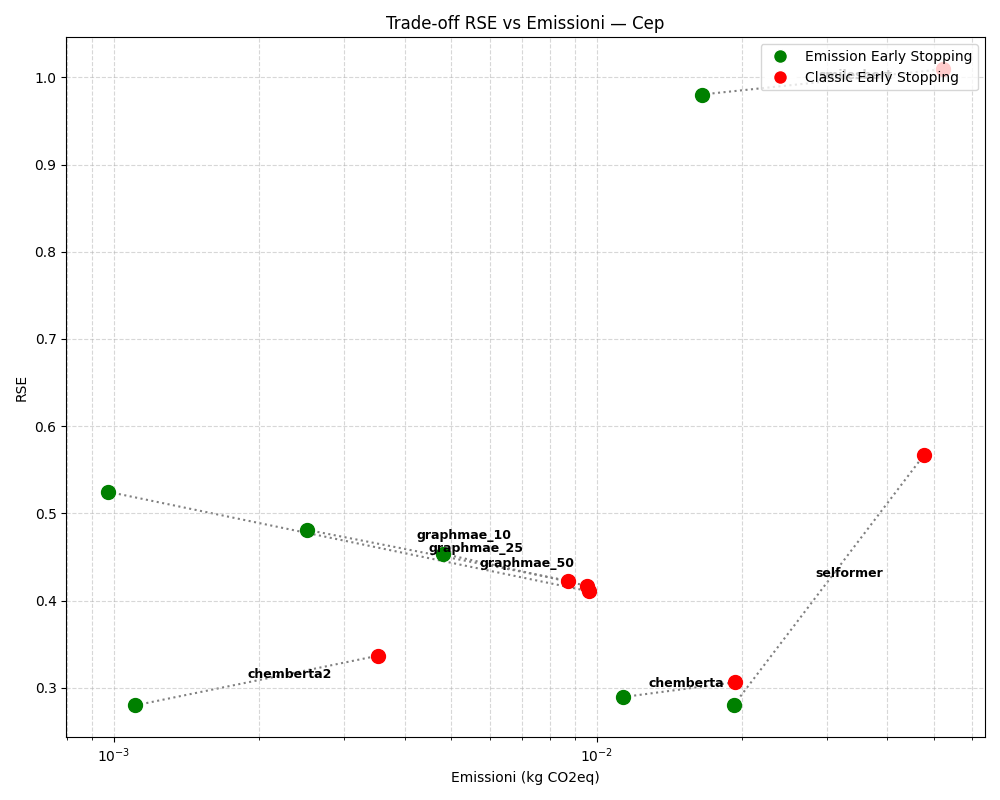
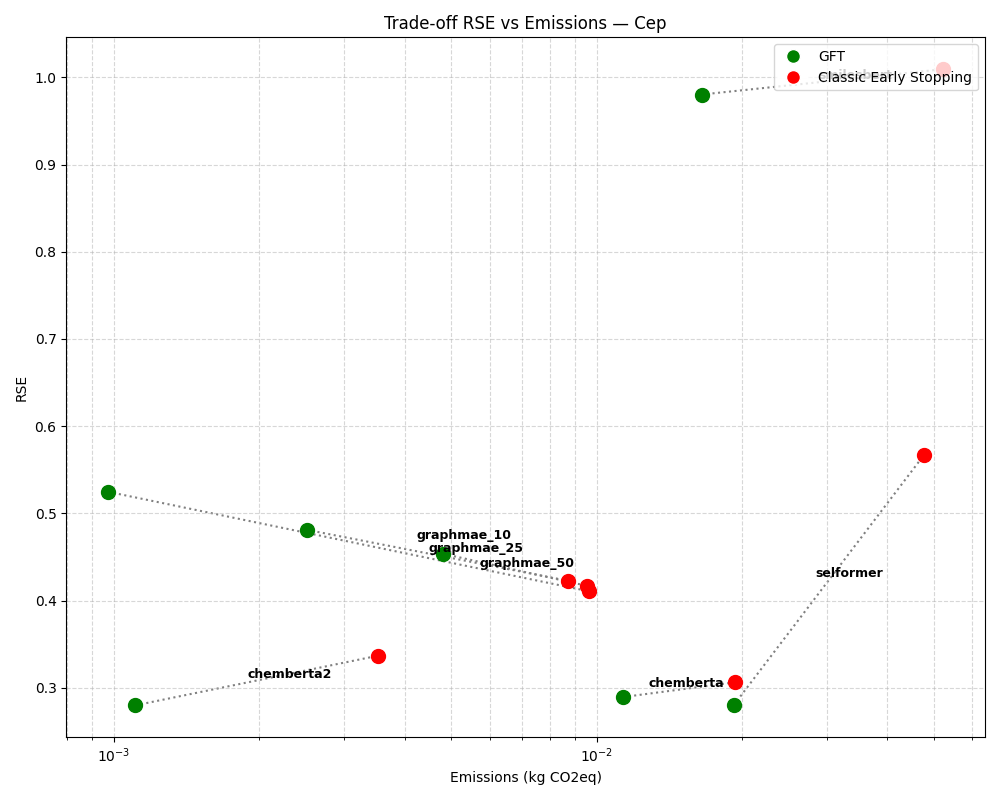
Doc w/out pre-proc

Changed region(s): [[0.775, 0.0625, 0.992, 0.125], [0.372, 0.0, 0.651, 0.0625], [0.465, 0.9688, 0.62, 1.0]]

diff --git a/prog/myshap.py b/prog/myshap.py
@@ -252,16 +252,16 @@ def create_plots(analysis, output_dir="."):
     
     imp_em = analysis['importance_emissions'].sort_values()
     axes[0].barh(imp_em.index, imp_em.values, color='orangered')
-    axes[0].set_title('Importanza (Partial Correlation) su Emissioni', fontweight='bold')
-    axes[0].set_xlabel('Contributo Unico Relativo')
+    axes[0].set_title('Importance (Partial Correlation) on Emissions', fontweight='bold')
+    axes[0].set_xlabel('Unique Relative Contribution')
     for i, (feat, val) in enumerate(imp_em.items()):
         raw_corr = analysis['corr_emissions'][feat]
         axes[0].text(val, i, f" $\\rho$={raw_corr:.2f}", va='center', fontsize=9)
 
     imp_perf = analysis['importance_performance'].sort_values()
     axes[1].barh(imp_perf.index, imp_perf.values, color='green')
-    axes[1].set_title('Importanza (Partial Correlation) su Performance', fontweight='bold')
-    axes[1].set_xlabel('Contributo Unico Relativo')
+    axes[1].set_title('Importance (Partial Correlation) on Performance', fontweight='bold')
+    axes[1].set_xlabel('Unique Relative Contribution')
     for i, (feat, val) in enumerate(imp_perf.items()):
         raw_corr = analysis['corr_performance'][feat]
         axes[1].text(val, i, f" $\\rho$={raw_corr:.2f}", va='center', fontsize=9)

diff --git a/prog/plot.py b/prog/plot.py
@@ -79,15 +79,15 @@ def plot_tradeoff(df, metric, out_name, title):
             c = colors.get(var_key, 'blue')
             plt.scatter(row['emissions'], row[metric], color=c, s=100, zorder=2)
 
-    plt.xlabel("Emissioni (kg CO2eq)")
+    plt.xlabel("Emissions (kg CO2eq)")
     ylabel = metric.upper()
     plt.ylabel(ylabel)
-    plt.title(f"Trade-off {ylabel} vs Emissioni — {title}")
+    plt.title(f"Trade-off {ylabel} vs Emissions — {title}")
     plt.xscale('log')
     plt.grid(True, which='both', ls='--', alpha=0.5)
 
     legend_elements = [
-        Line2D([0], [0], marker='o', color='w', label='Emission Early Stopping', markerfacecolor='green', markersize=10),
+        Line2D([0], [0], marker='o', color='w', label='GFT', markerfacecolor='green', markersize=10),
         Line2D([0], [0], marker='o', color='w', label='Classic Early Stopping', markerfacecolor='red', markersize=10)
     ]
     plt.legend(handles=legend_elements, loc='upper right')
